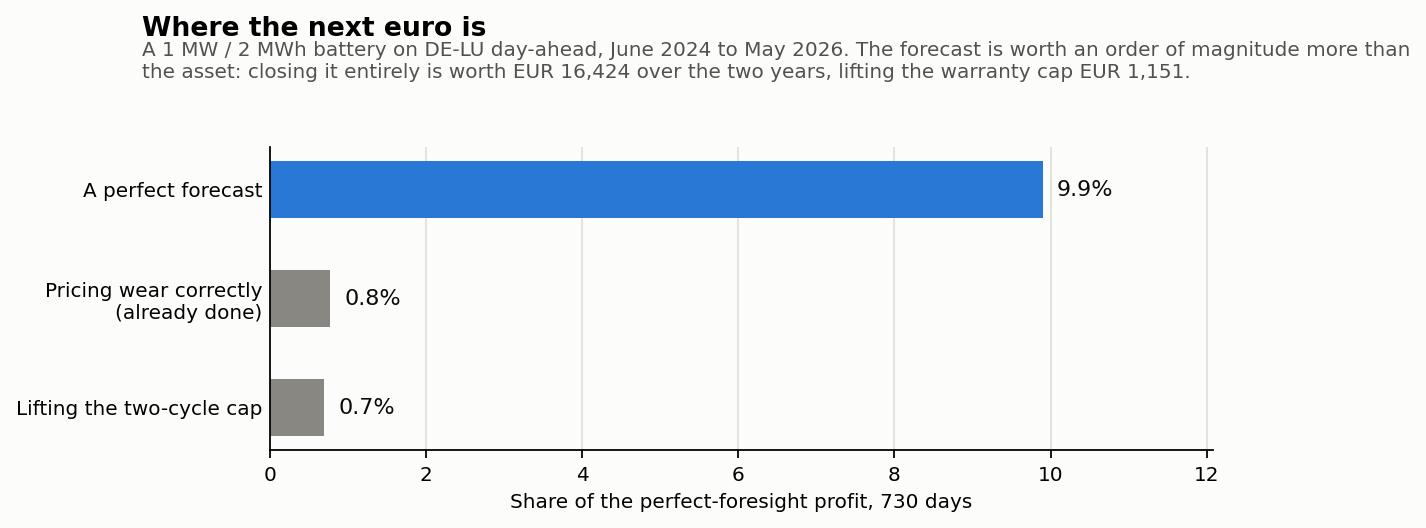
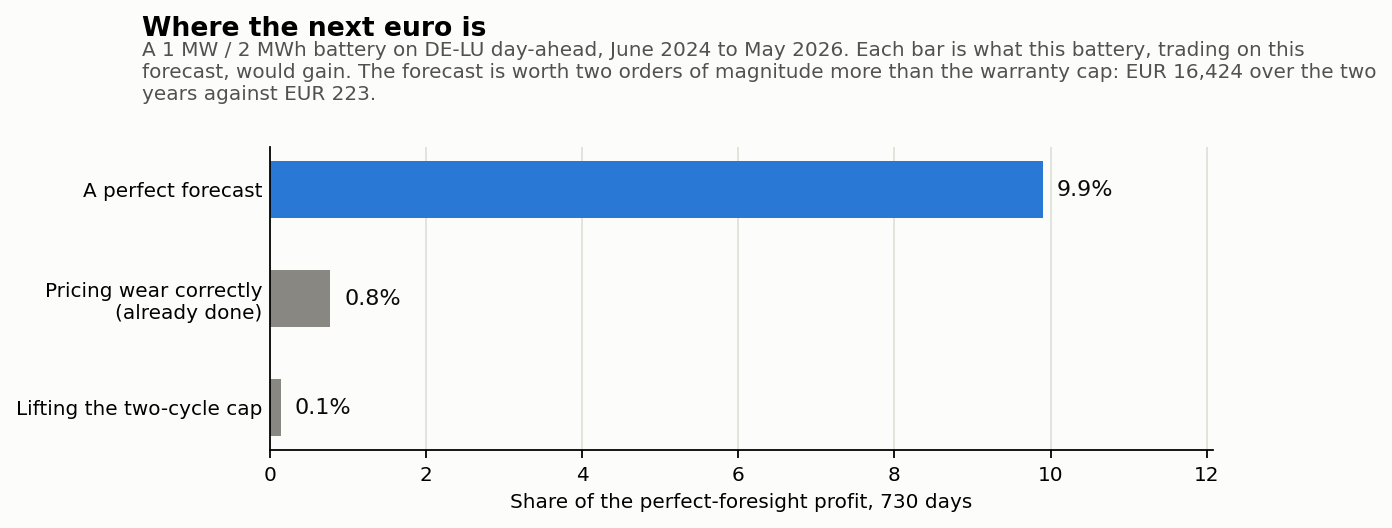
Compare the levers like for like, and cite the regulation correctly
Two errors found by fact-checking the article against this repo.

The "where the next euro is" figure put two different quantities on one axis.
The forecast bar was what the median-forecast strategy would gain from a perfect
forecast; the cycle-cap bar was what a perfect-foresight trader would gain from
lifting the cap. Same denominator, different numerators, presented as a
comparison. For the battery that actually trades, taking the cap off is worth
EUR 223 rather than EUR 1,151, so the figure said 0.7% where 0.1% was the
number it was claiming to show. Every bar is now the same quantity, and the
finding is stronger for it: two orders of magnitude between the forecast and the
warranty cap rather than one. The 0.7% is not wrong, it is the answer to a
different question, and the README now says which is which.

The leakage note cited EU Regulation 543/2013 Article 14(1)(d) for the 18:00
deadline. 14(1)(d) names the data item and carries no time; the deadline is in
14(2)(d), and it is 18:00 Brussels time. The duty also falls on TSOs, with
ENTSO-E publishing under Article 3. The substance was right and the pinpoint was
not, which is worse than vague in a note whose whole value is that a reader can
check it.

diff --git a/notebooks/build_readme_figures.py b/notebooks/build_readme_figures.py
@@ -248,12 +248,14 @@ def decision_value() -> None:
 
 
 def next_euro() -> None:
-    """What each lever is worth, all measured against the same ceiling.
+    """What each lever is worth to the battery that actually trades.
 
     The forecast and the asset are usually argued about separately, in different
-    units, so they never get compared. Both are put here as a share of the
-    perfect-foresight profit on the same 730 days, which is the only way to see
-    that one of them is an order of magnitude larger than the other.
+    units, so they never get compared. Every bar here is the same quantity: how
+    much more the median-forecast strategy would have earned over the same 730
+    days, as a share of the perfect-foresight ceiling. Measuring the cap against
+    the ceiling instead would answer a different question, what a trader with
+    perfect knowledge would gain from it, and would not belong on the same axis.
     """
     processed = load_settings().data.processed_path
     sweep = pd.read_csv(processed / "backtest" / "degradation" / "summary.csv")
@@ -267,7 +269,11 @@ def next_euro() -> None:
 
     ceiling = pnl(capped & true_wear, "perfect_foresight")
     traded = pnl(capped & true_wear, "median_forecast")
-    no_cap_ceiling = pnl(uncapped & true_wear, "perfect_foresight")
+    # Every bar is a gain to the strategy that actually trades, over the same
+    # ceiling. Taking the cap off the perfect-foresight run instead would raise
+    # the ceiling by 0.7%, which is a different question from what this desk
+    # would earn, and putting the two side by side would not be a comparison.
+    no_cap = pnl(uncapped & true_wear, "median_forecast")
     free_wear = pnl(capped & (sweep["optimizer_wear_eur_per_mwh"] == 0.0),
                     "median_forecast")
 
@@ -278,7 +284,7 @@ def next_euro() -> None:
             (traded - free_wear) / ceiling,
             MUTED,
         ),
-        ("Lifting the two-cycle cap", (no_cap_ceiling - ceiling) / ceiling, MUTED),
+        ("Lifting the two-cycle cap", (no_cap - traded) / ceiling, MUTED),
     ]
     fig, ax = plt.subplots(figsize=(7.6, 3.1))
     names = [name for name, _, _ in levers]
@@ -294,10 +300,11 @@ def next_euro() -> None:
     titled(
         fig,
         "Where the next euro is",
-        f"A 1 MW / 2 MWh battery on DE-LU day-ahead, June 2024 to May 2026. The "
-        f"forecast is worth an order of magnitude more than the asset: closing it "
-        f"entirely is worth EUR {ceiling - traded:,.0f} over the two years, lifting "
-        f"the warranty cap EUR {no_cap_ceiling - ceiling:,.0f}.",
+        f"A 1 MW / 2 MWh battery on DE-LU day-ahead, June 2024 to May 2026. Each "
+        f"bar is what this battery, trading on this forecast, would gain. The "
+        f"forecast is worth two orders of magnitude more than the warranty cap: "
+        f"EUR {ceiling - traded:,.0f} over the two years against EUR "
+        f"{no_cap - traded:,.0f}.",
         0.72,
     )
     fig.savefig(OUT / "next_euro.png", dpi=160, bbox_inches="tight")

diff --git a/README.md b/README.md
@@ -2,7 +2,7 @@
 
 A probabilistic price forecaster feeding a battery dispatch optimiser, backtested on real German day-ahead market data. Built to answer one question: does a better price forecast actually make a battery more money?
 
-**The finding.** Trading a 1 MW / 2 MWh battery on two years of DE-LU day-ahead prices, my quantile forecast captured 90.1% of the perfect-foresight profit, €74,700 per MW per year, against 77.6% when the same optimiser traded on yesterday's prices. Better forecasts earned more, a rank correlation of -0.83 across eight forecasters, but timing mattered more than size: an evening shifted one hour early lost as much as random noise with twice the average error. What binds is the forecast, not the battery: forecast error cost 9.9% of the achievable profit, while lifting the two-cycle warranty cap would have added only 0.7%. For an operator, the next euro belongs in evening timing and drift monitoring: on an untouched summer hold-out, capture came in 3.4 points below the same months of validation because the forecast degraded.
+**The finding.** Trading a 1 MW / 2 MWh battery on two years of DE-LU day-ahead prices, my quantile forecast captured 90.1% of the perfect-foresight profit, €74,700 per MW per year, against 77.6% when the same optimiser traded on yesterday's prices. Better forecasts earned more, a rank correlation of -0.83 across eight forecasters, but timing mattered more than size: an evening shifted one hour early lost as much as random noise with twice the average error. What binds is the forecast, not the battery: measured the same way, as what this battery trading on this forecast would gain, closing the forecast gap is worth 9.9% of the achievable profit and lifting the two-cycle warranty cap 0.1%. For an operator, the next euro belongs in evening timing and drift monitoring: on an untouched summer hold-out, capture came in 3.4 points below the same months of validation because the forecast degraded.
 
 ![Battery trading dashboard on the last hold-out day](docs/img/dashboard.png)
 
@@ -39,7 +39,7 @@ Validation window, June 2024 to May 2026, 70,080 quarter-hours.
 
 ![Where the next euro is: a perfect forecast is worth 9.9% of the ceiling, lifting the cycle cap 0.7%](docs/img/next_euro.png)
 
-*Both levers measured against the same perfect-foresight ceiling on the same 730 days, which is the only way to compare them. Closing the forecast gap entirely is worth €16,424 over the two years; lifting the two-cycle warranty cap, €1,151.*
+*Every bar is the same quantity: what the median-forecast strategy would have gained over the same 730 days, as a share of the perfect-foresight ceiling. Closing the forecast gap is worth €16,424 over the two years; lifting the two-cycle warranty cap, €223. Measuring the cap against the ceiling instead answers a different question, what a trader with perfect knowledge would gain from it, and that figure is €1,151.*
 
 ![Reliability diagram of four forecasters](docs/img/calibration.png)
 

diff --git a/docs/production_notes.md b/docs/production_notes.md
@@ -103,9 +103,12 @@ day D+1 close. A backtest using it looks better than any live system can be.
 
 **Found:**
 - SMARD's day-ahead wind and solar forecasts are submitted at 18:00 the day
-  before delivery, six hours after the gate. EU Regulation 543/2013, Article
-  14(1)(d), sets the same 18:00 deadline on ENTSO-E, so switching source does
-  not help.
+  before delivery, six hours after the gate. EU Regulation 543/2013 puts the
+  same deadline on every TSO: Article 14(1)(d) names the data item, a forecast
+  of wind and solar generation per bidding zone for each market time unit of the
+  following day, and Article 14(2)(d) sets it to be published no later than
+  18:00 Brussels time one day before delivery, so switching source does not
+  help. ENTSO-E's own duty to publish it follows from Article 3.
 - The day-ahead load forecast is due two hours before gate closure, Article
   6(1)(b), but may be updated afterwards. No vintage is published.
 - These forecasts track actuals closely: correlation 0.995 for solar and 0.987
